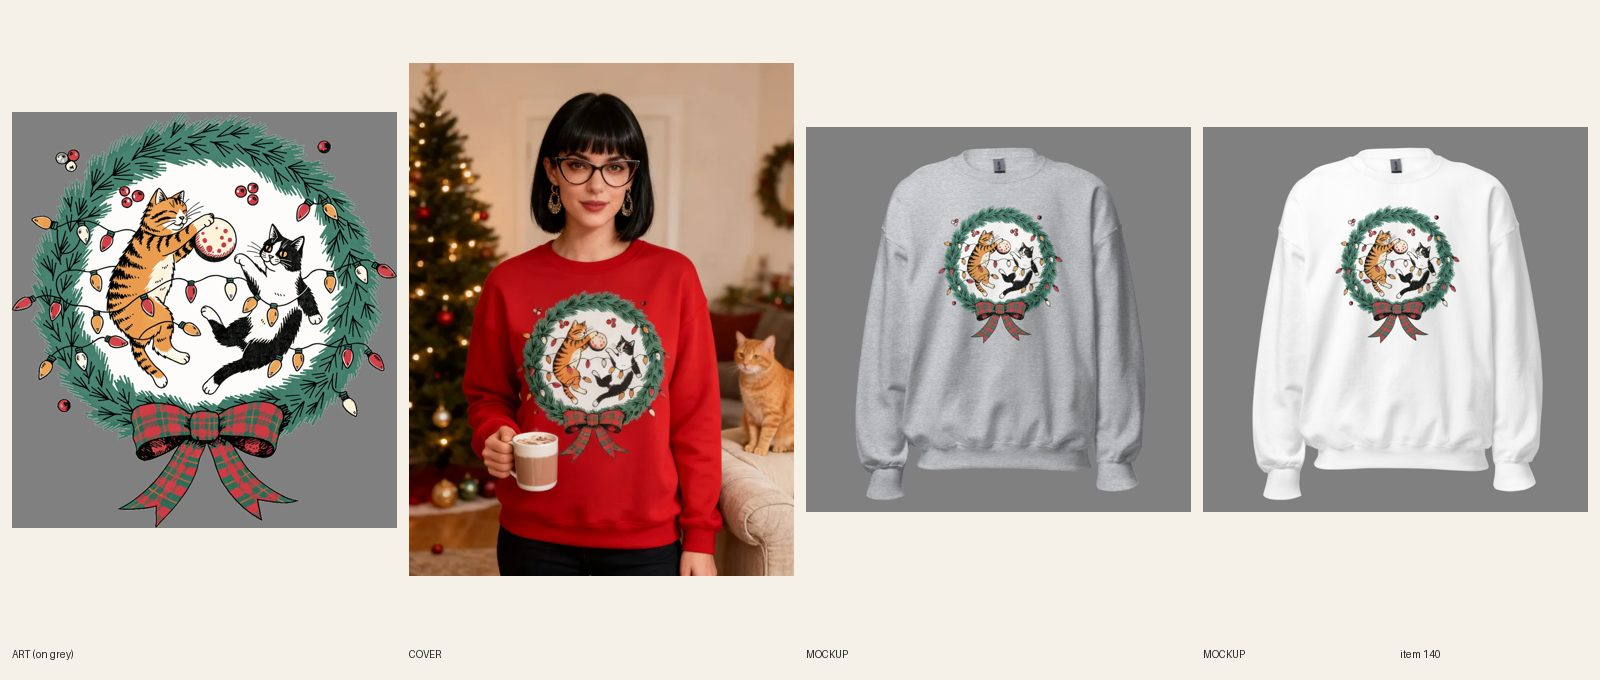
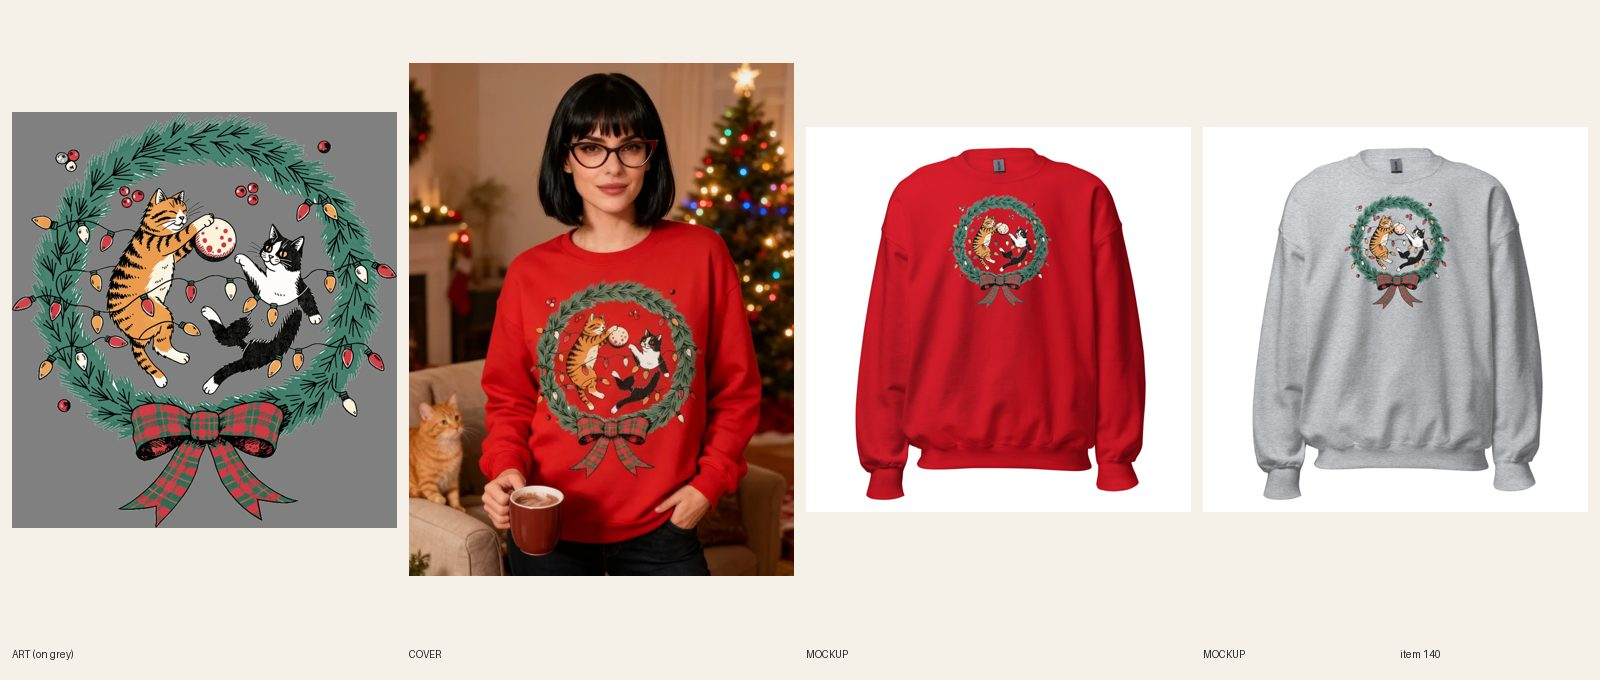
[A] 140 redo fixed, 147 Define Naughty crewneck draft

diff --git a/src/data/covers.ts b/src/data/covers.ts
@@ -177,6 +177,7 @@ export const covers: Record<string, { src: string; alt: string }> = {
   'womens-christmas-nutcracker-bow-hoodie': { src: '/covers/womens-christmas-nutcracker-bow-hoodie.webp', alt: 'Woman with dark waves and statement earrings at a night holiday market with a nutcracker display behind her, wearing the navy Nutcracker Bow hoodie' },
   'unisex-anime-kaiju-naps-oversized-hoodie': { src: '/covers/unisex-anime-kaiju-naps-oversized-hoodie.webp', alt: 'Man and woman on a city rooftop at dusk, side by side in matching beige oversized hoodies with the Destroyer of Cities, Lover of Naps kaiju print' },
   'unisex-anime-mecha-mondays-oversized-hoodie': { src: '/covers/unisex-anime-mecha-mondays-oversized-hoodie.webp', alt: 'Man and woman in matching beige oversized hoodies outside a neon-lit ramen shop at night, holding takeaway coffee, wearing the Mecha Mondays hoodie' },
+  'unisex-christmas-define-naughty-crewneck-sweatshirt': { src: '/covers/unisex-christmas-define-naughty-crewneck-sweatshirt.webp', alt: 'Man and woman standing together at an office holiday party with paper snowflakes and a lit tree, holding coffee cups and wearing the navy Define Naughty crewneck sweatshirt' },
 };
 
 export const coverFor = (handle: string) => covers[handle] ?? null;

diff --git a/scripts/pf-find.py b/scripts/pf-find.py
@@ -3,7 +3,7 @@
 import os, sys, json, urllib.request
 T = os.environ['PRINTFUL_TOKEN']; q = sys.argv[1]; off = 0
 while True:
-    d = json.load(urllib.request.urlopen(urllib.request.Request(f'https://api.printful.com/sync/products?limit=100&offset={off}', headers={'Authorization': 'Bearer ' + T})))
+    d = json.load(urllib.request.urlopen(urllib.request.Request(f'https://api.printful.com/sync/products?limit=100&offset={off}', headers={'Authorization': 'Bearer ' + T, 'User-Agent': 'gtc-builder'})))
     for p in d['result']:
         if q == p['external_id'] or q.lower() in p['name'].lower(): print(p['id'], p['name'], p['variants'], p['synced'])
     off += 100

diff --git a/scripts/pf-sync.py b/scripts/pf-sync.py
@@ -10,7 +10,7 @@ def call(method, path, body=None):
     for _ in range(8):
         r = urllib.request.Request('https://api.printful.com' + path, method=method,
             data=json.dumps(body).encode() if body is not None else None,
-            headers={'Authorization': 'Bearer ' + T, 'Content-Type': 'application/json'})
+            headers={'Authorization': 'Bearer ' + T, 'Content-Type': 'application/json', 'User-Agent': 'gtc-builder'})
         try:
             return json.load(urllib.request.urlopen(r, timeout=60))['result']
         except urllib.error.HTTPError as e:

diff --git a/docs/intake-log.md b/docs/intake-log.md
@@ -1,6 +1,7 @@
 2026-10-16 17:03 UTC — [B] REVIEW #180 Mecha Mondays Oversized Hoodie: twin of tee, file 1087363194 front 11 x 10 in + back logo, Dust + Athletic Heather (dark navy linework sinks into Navy), 12/12 synced, $54.99/$59.99, vintage anime hoodie 110/40. Cover note: try 2 kept, the man's print drew a dark rectangle frame (the woman's print is clean); try 1 had the same frame plus cups over the print.
 2026-10-16 16:59 UTC — [B] REVIEW #179 Kaiju Naps Oversized Hoodie: twin of tee, file 1087506516 front (max fit 7.1 x 11 in: the 4719 front area is 11 in square and the art is tall) + back logo, Dust + Athletic Heather (navy shadows vanish on Navy), 12/12 synced, $54.99/$59.99, monster hoodie 6600/13.
 2026-10-16 16:56 UTC — [B] REVIEW #178 Deer Diary Zip Hoodie: twin of tee, file 1087174753 (back full + left chest, no neck logo), Ash + Sport Grey (sage/dark art), 14/14 synced, $44.99/$49.99, deer hunting hoodie 170/34. Cover note: try 1 kept (faithful print) but the model shows a zipper line down the back; try 2 garbled the print.
+2026-10-16 17:04 UTC — [A] REVIEW #140 (REDO fixed: wreath disc knocked out, new cover, mockups; live tee mockups swapped, file swap queued). Built drafts: #148 Jolly-ish tee, #189/#190/#191 Christmas hoodies, #147 Define Naughty crewneck (Printful links finishing in background; items go REVIEW when synced).
 2026-10-16 16:54 UTC — [B] REVIEW #177 Opening Day Zip Hoodie: twin of tee, file 1085707777 (back full 11in + left chest 3.5in; no neck logo on zip-up), Ash + Sport Grey (navy hides the dark buck linework), 14/14 synced, $44.99/$49.99, hunting hoodie men 880/26.
 2026-10-16 16:54 UTC — [B] REVIEW #131 Professional Tree Sitter (redo): R5.3.4/R5.3.8 redo: new art (hunter holds the bow across his lap), all non-ink white knocked out (checked on grey + dark), file 1087674825 re-synced 40/40, new cover (art-faithful, try 2), mockups + variant images swapped.
 RUNNING helper since 2026-10-16 16:42 UTC

diff --git a/docs/pipeline/140-christmas-christmas-cats.md b/docs/pipeline/140-christmas-christmas-cats.md
@@ -1,4 +1,4 @@
-status: BUILDING [A] 2026-10-16 16:40 UTC
+status: REVIEW
 lane: A
 type: twin
 id: 140
@@ -17,3 +17,4 @@ handle: womens-christmas-christmas-cats-crewneck-sweatshirt
   1. R4.1 / R5.3.8: the inside of the wreath is a solid white disc. On Red, Maroon, Black, Sand and Light Pink it prints as a white circle behind the cats: a badge look (visible on the cover). Fix in print-prep without new art: knock the white fill inside the wreath out to transparent, keeping the tuxedo cat's white chest/paws and the tabby's cream belly (mask the disc minus the cat shapes). Re-upload, re-sync all 57 variants, regenerate mockups.
   2. If the knock-out can't be done cleanly in two tries (R5.4), drop the disc-showing colors and keep only White, Ash, Sport Grey (where white reads as part of the shirt) and log it; then the cover must be on one of those colors (R6.7), so regenerate it once.
   3. Same issue exists on the live Christmas Cats tee: after this fix, swap the tee's Printful file to the cleaned one too (fix in place, R1.4) and note it in the log.
+- 2026-10-16 UTC builder [A]: REDO fixed. Wreath disc knocked out to transparent (cream flood from inside the wreath, tuxedo chest/paws, tabby belly and ornament kept; checked on grey and dark), new print file 1087675289 (3600x3888). Crewneck re-synced 57/57 with it; cover regenerated on Red (no disc, same #210 person); 8 front mockups + back replaced in place (fileUpdate keeps variant links). Live tee (sync 479874238, Shopify 15345864311088): mockups swapped; Printful file swap queued (R1.4 fix in place): if not done, `python3 scripts/pf-sync.py setfile 479874238 1087675289`. A position re-sync (10 in wide, 0.5 in below area top, to match mockups) is also queued for both. REVIEW.

diff --git a/docs/model-registry.md b/docs/model-registry.md
@@ -200,7 +200,7 @@ Rows 11–43 were re-pointed on 2026-10-08 when the briefs were rewritten from d
 | 214 | Woman in her early 40s, short natural curls, warm brown eyes | USED 2026-10-16 — Gingerbread Lane crewneck cover (fal Seedream 4, try 1; cookie-decorating kitchen) |
 | 215 | Woman in her late 60s, white shoulder-length hair, rosy cheeks | USED 2026-10-16 — Vintage Snowman crewneck cover (fal Seedream 4, try 1; snow-day cabin) |
 | 216 | Black man in his late 30s, short fade, neat full beard, broad build | USED 2026-10-16 — Define Naughty tee cover (fal Seedream 4, try 2: try 1 mug covered the print; living room, Christmas morning) |
-| 217 | Pair: Filipino man in his early 30s, side-parted black hair + white woman in her early 30s, copper-red shoulder-length hair | RESERVED — #147 Define Naughty crewneck cover (man + woman) |
+| 217 | Pair: Filipino man in his early 30s, side-parted black hair + white woman in her early 30s, copper-red shoulder-length hair | USED 2026-10-16 — #147 Define Naughty crewneck cover (fal Seedream 4, office holiday party; try 2 kept: try 1 had a coffee cup over the print; her cup still clips the end of NAUGHTY, his print is complete) |
 | 218 | Latina woman in her early 30s, long dark curls, red lipstick, gold statement earrings | USED 2026-10-16 — #148 Jolly-ish tee cover (fal Seedream 4, Christmas market at dusk; try 1 kept) |
 | 219 | Korean-American woman in her late 30s, shoulder-length straight hair with face-framing layers | RESERVED — #149 Jolly-ish crewneck cover |
 | 220 | White man in his mid 40s, sandy-brown hair, wire-rim glasses, stubble | RESERVED — #150 Light Show Manager tee cover |

diff --git a/docs/pipeline/147-christmas-define-naughty-crewneck.md b/docs/pipeline/147-christmas-define-naughty-crewneck.md
@@ -16,3 +16,4 @@ handle: unisex-christmas-define-naughty-crewneck-sweatshirt
 ---
 ## Log
 - 2026-10-16 08:45 UTC director: brief written, READY.
+- 2026-10-16 UTC builder [A]: DRAFT gid://shopify/Product/15361639285040 (Gildan 18000, Navy, Dark Heather, Forest Green, Military Green, Dark Chocolate, Maroon x S-3XL = 35; no Black, linework disappears), reused file 1087518142 (Printful sync 482246597), copy/SEO/tags/price 34.99/39.99, keywords naughty sweater 90/42 + santa sweater 1,900/56, cover #217 (try 2 kept, try 1 cup over print), 6 fronts + back, variant images, audit PASS, docs/review/147.jpg. Printful link queued: `FORCE=1 python3 scripts/pf-sync.py setfile 482246597 1087518142 1080398177`. REVIEW once synced = 35.
